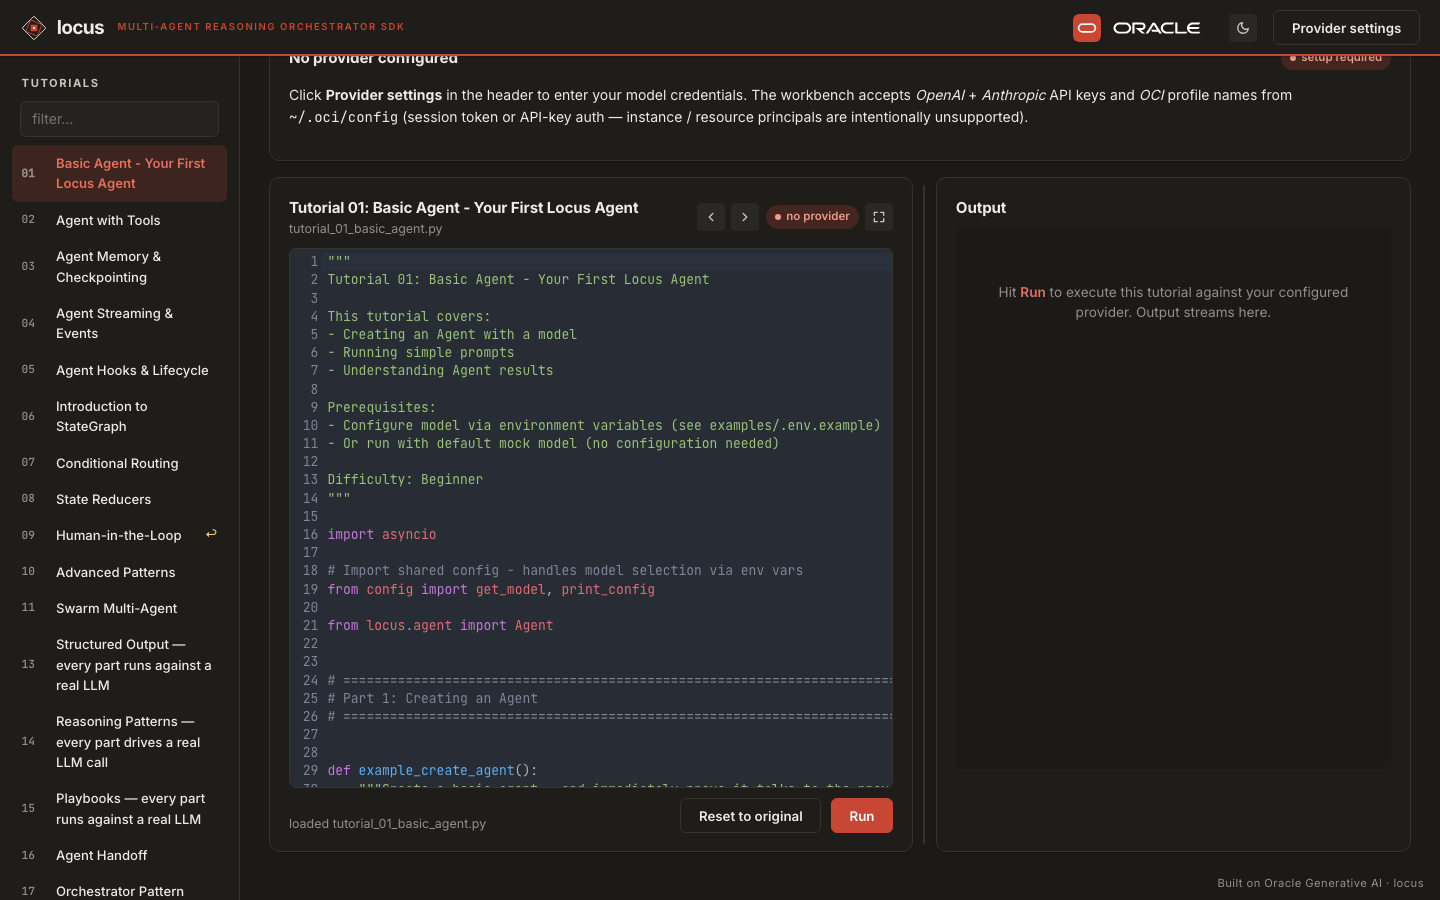
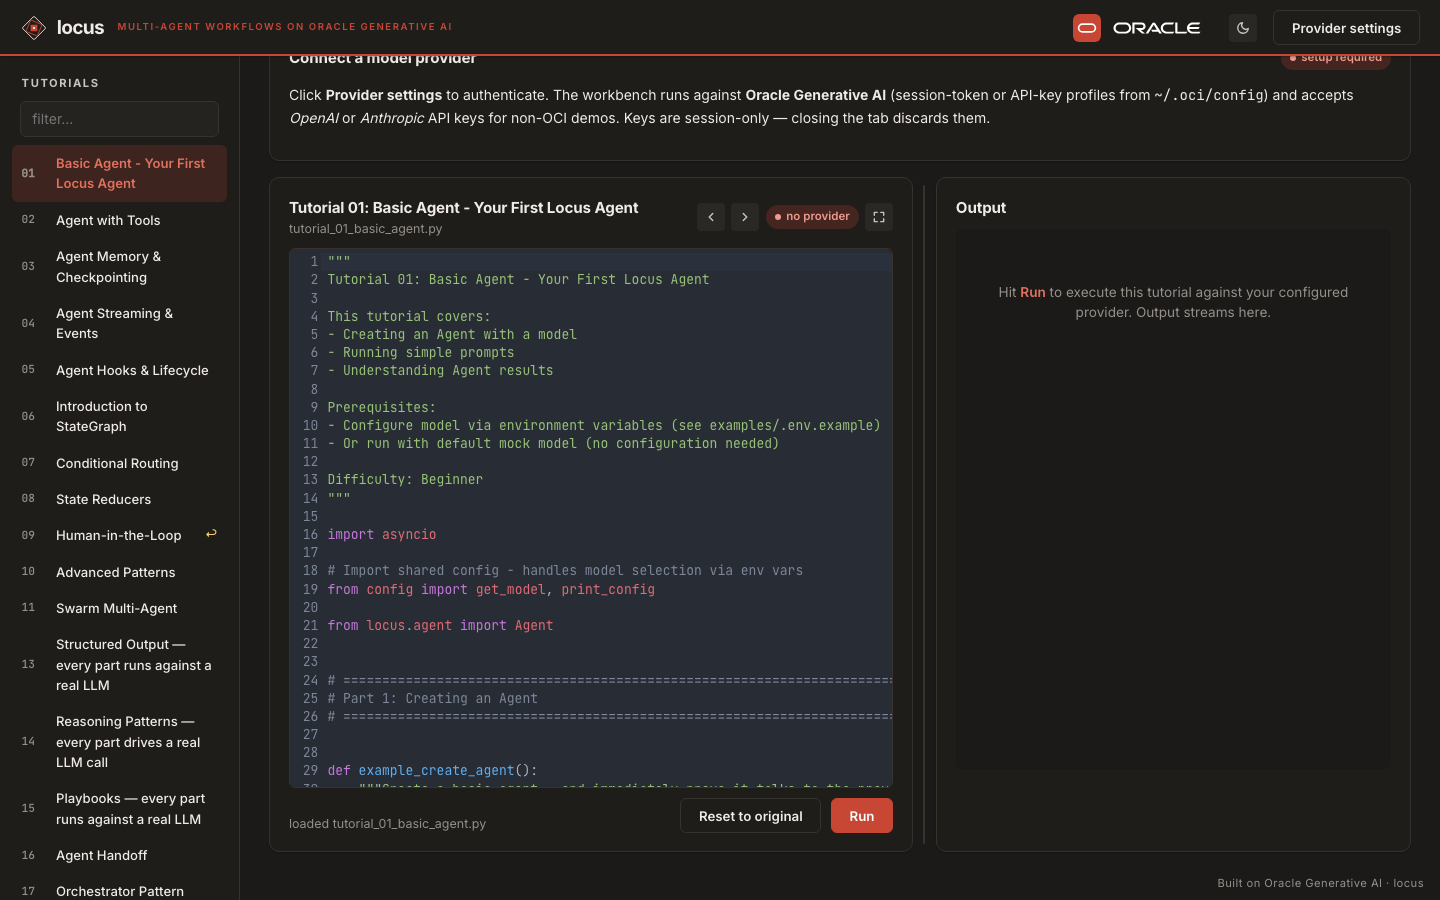
docs(home,sandbox): align hero and workbench copy under one Oracle voice
Make the docs hero, the workbench tagline, and the provider-setup
prompt say the same thing in the same voice — "production-grade
multi-agent workflows on Oracle Generative AI".

- docs/index.md: hero leads with Oracle Generative AI; replaces
  "Resume next week" with "Resume across days, weeks, or queues";
  recasts the seven shapes as "first-class workflow primitives".
- sandbox/web/index.html: brand-tag becomes "multi-agent workflows on
  Oracle Generative AI" so the workbench top-bar mirrors the docs
  hero; provider-warning recast as "Connect a model provider",
  body rewritten to lead with OCI / GenAI and call out the
  session-only-keys posture explicitly.
- Re-captured docs/img/workbench.{png,gif} so the assets shipping in
  the README + workbench page show the new copy in motion.

Changed region(s): [[0.1875, 0.0622, 0.9375, 0.1556], [0.1562, 0.0, 0.2812, 0.0311]]

diff --git a/sandbox/web/index.html b/sandbox/web/index.html
@@ -19,7 +19,7 @@
         <div class="app__brand">
           <img class="app__brand-icon" id="app-brand-icon" src="/locus-mark.svg" alt="locus" />
           <span class="app__brand-mark">locus</span>
-          <span class="app__brand-tag">multi-agent reasoning orchestrator SDK</span>
+          <span class="app__brand-tag">multi-agent workflows on Oracle Generative AI</span>
         </div>
         <div class="app__header-spacer"></div>
         <a class="app__oracle" href="https://www.oracle.com/artificial-intelligence/generative-ai/" target="_blank" rel="noopener noreferrer" aria-label="Oracle Generative AI">
@@ -49,14 +49,15 @@
 
         <div class="card" id="provider-warning" style="display: none">
           <div class="card__header">
-            <h2 class="card__title">No provider configured</h2>
+            <h2 class="card__title">Connect a model provider</h2>
             <span class="pill pill--down"><span class="pill__dot"></span>setup required</span>
           </div>
           <p>
-            Click <strong>Provider settings</strong> in the header to enter your model
-            credentials. The workbench accepts <em>OpenAI</em> + <em>Anthropic</em> API keys
-            and <em>OCI</em> profile names from <code>~/.oci/config</code> (session token or
-            API-key auth — instance / resource principals are intentionally unsupported).
+            Click <strong>Provider settings</strong> to authenticate. The workbench
+            runs against <strong>Oracle Generative AI</strong> (session-token or
+            API-key profiles from <code>~/.oci/config</code>) and accepts
+            <em>OpenAI</em> or <em>Anthropic</em> API keys for non-OCI demos.
+            Keys are session-only — closing the tab discards them.
           </p>
         </div>
 
@@ -67,7 +68,7 @@
             <div class="card__header">
               <div>
                 <h2 class="card__title" id="wb-title">…</h2>
-                <div class="card__sub" id="wb-sub">Edit the source. Hit Run to execute as a python subprocess against the configured provider.</div>
+                <div class="card__sub" id="wb-sub">Edit the source. Run executes a Python subprocess against your configured provider; events stream into the Output pane on the right.</div>
               </div>
               <div style="display: flex; gap: 0.4rem; align-items: center">
                 <button class="icon-btn" id="wb-prev-btn" data-testid="wb-prev-btn" title="Previous tutorial" aria-label="Previous tutorial">

diff --git a/docs/index.md b/docs/index.md
@@ -7,15 +7,17 @@ hide:
 <div class="locus-hero" markdown>
 <div class="locus-hero__copy" markdown>
 
-# Multi-agent workflows you'd actually <span class="accent">deploy.</span>
+# Production-grade multi-agent workflows on <span class="accent">Oracle Generative AI.</span>
 
-**Stream them. Branch them. Pause for a human. Resume next week.**
+**Stream events. Branch on state. Pause for human review.
+Resume across days, weeks, or queues.**
 
-Seven workflow shapes you compose in one process or scale across a
-mesh. **Compose** linear pipelines. **Orchestrate** specialists in
-parallel. **Swarm** for peer-to-peer research. **Handoff** for
-escalation desks. **StateGraph** loops until confident. **Functional**
-maps across agents. **A2A** meshes across processes.
+Seven first-class workflow primitives — composable in a single Python
+process, scalable across an agent mesh. **Compose** linear pipelines.
+**Orchestrate** specialists in parallel. **Swarm** for peer-to-peer
+research. **Handoff** for escalation desks. **StateGraph** for bounded
+retry loops. **Functional** for map-style composition. **A2A** for
+cross-process meshes.
 
 [See what you can build](#six-things-you-can-ship){ .md-button .md-button--primary }
 [GitHub](https://github.com/oracle-samples/locus){ .md-button }